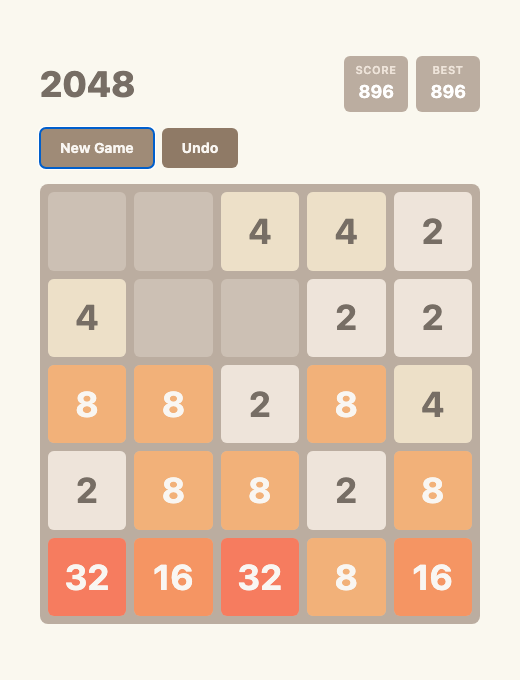
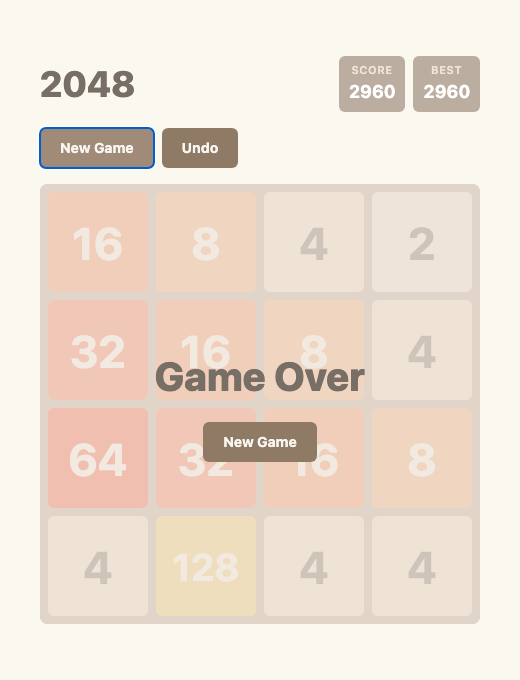
Change grid to standard 4×4 and update all docs/assets
- GRID_SIZE: 5 → 4 (standard 2048 board)
- Updated all references in README, prompt.txt, CHALLENGE.md
- Regenerated demo.gif and hero.png for 4×4 board
- Updated difficulty variants table (4×4 is default, 5×5 is easy)

diff --git a/src/game/constants.ts b/src/game/constants.ts
@@ -1,4 +1,4 @@
-export const GRID_SIZE = 5
+export const GRID_SIZE = 4
 export const WIN_VALUE = 2048
 export const SLIDE_DURATION = 120
 export const APPEAR_DURATION = 200

diff --git a/src/utils/storage.ts b/src/utils/storage.ts
@@ -1,4 +1,4 @@
-const BEST_KEY = 'best2048_5x5'
+const BEST_KEY = 'best2048_4x4'
 
 export function loadBest(): number {
   try {

diff --git a/benchmark/CHALLENGE.md b/benchmark/CHALLENGE.md
@@ -6,7 +6,7 @@ This benchmark evaluates an AI agent's ability to play and win the browser-based
 
 ## Objective
 
-**Reach the 2048 tile on a 5×5 board.**
+**Reach the 2048 tile on a 4×4 board.**
 
 The game is a sliding-tile puzzle where tiles merge when two of the same value collide. Starting from 2s and 4s, the agent must strategically combine tiles until a 2048 tile is created.
 
@@ -48,7 +48,7 @@ http://localhost:5173/2048_project/
 Reach the **2048 tile** to win the game.
 
 ## How the Game Works
-- The board is a 5×5 grid.
+- The board is a 4×4 grid.
 - Each turn, you press an arrow key (Up, Down, Left, Right) to slide all tiles in that direction.
 - When two tiles of the same value collide, they merge into one tile with double the value (e.g., 2+2=4, 4+4=8, ..., 1024+1024=2048).
 - After each move, a new tile (2 or 4) appears randomly on an empty cell.
@@ -99,9 +99,9 @@ Reach the **2048 tile** to win the game.
 
 ## Difficulty Notes
 
-- The 5×5 board is **easier** than the standard 4×4 board, providing more room to maneuver. A competent strategy should win most games.
-- A random-move baseline wins ~5% of the time on a 5×5 board.
-- A simple corner-hugging strategy wins ~70–90% of the time.
+- The standard 4×4 board is the classic 2048 experience.
+- A random-move baseline wins ~0.1% of the time on a 4×4 board.
+- A simple corner-hugging strategy wins ~30–60% of the time.
 - The benchmark primarily tests the agent's ability to:
   1. **Perceive**: Accurately read tile values from screenshots
   2. **Reason**: Choose good moves based on board state
@@ -114,6 +114,6 @@ For harder benchmarks, modify `src/game/constants.ts`:
 
 | Variant | Change | Difficulty |
 |---|---|---|
-| **Standard 4×4** | `GRID_SIZE = 4` | Harder |
+| **Easy 5×5** | `GRID_SIZE = 5` | Easier |
 | **Target 4096** | `WIN_VALUE = 4096` | Much Harder |
-| **4×4 + 4096** | Both changes | Expert |
+| **5×5 + 4096** | Both changes | Hard |

diff --git a/README.md b/README.md
@@ -20,7 +20,7 @@
 
 ## What is this?
 
-A fully functional 2048 game (5×5 grid) built with React + TypeScript, purpose-built as an **AI agent benchmark**. The challenge: an AI must play the game through **real browser interaction** — reading the screen via screenshots, pressing arrow keys, and strategizing to reach 2048.
+A fully functional 2048 game (4×4 grid) built with React + TypeScript, purpose-built as an **AI agent benchmark**. The challenge: an AI must play the game through **real browser interaction** — reading the screen via screenshots, pressing arrow keys, and strategizing to reach 2048.
 
 This tests an AI agent's ability to:
 
@@ -161,10 +161,10 @@ Edit `src/game/constants.ts` to adjust:
 
 | Variant | `GRID_SIZE` | `WIN_VALUE` | Difficulty |
 |---|---|---|---|
-| Default (5×5) | 5 | 2048 | Normal |
-| Standard (4×4) | 4 | 2048 | Hard |
-| Extended (5×5) | 5 | 4096 | Hard |
-| Expert (4×4) | 4 | 4096 | Expert |
+| Default (4×4) | 4 | 2048 | Normal |
+| Easy (5×5) | 5 | 2048 | Easy |
+| Extended (4×4) | 4 | 4096 | Hard |
+| Expert (5×5 + 4096) | 5 | 4096 | Expert |
 
 ### Full Specification
 
@@ -174,7 +174,7 @@ See [`benchmark/CHALLENGE.md`](benchmark/CHALLENGE.md) for detailed rules, strat
 
 ## Game Features
 
-- 5×5 sliding tile grid
+- 4×4 sliding tile grid
 - Smooth CSS animations (slide, appear, merge)
 - Keyboard (Arrow keys + WASD) and touch/swipe input
 - Score tracking with localStorage persistence
